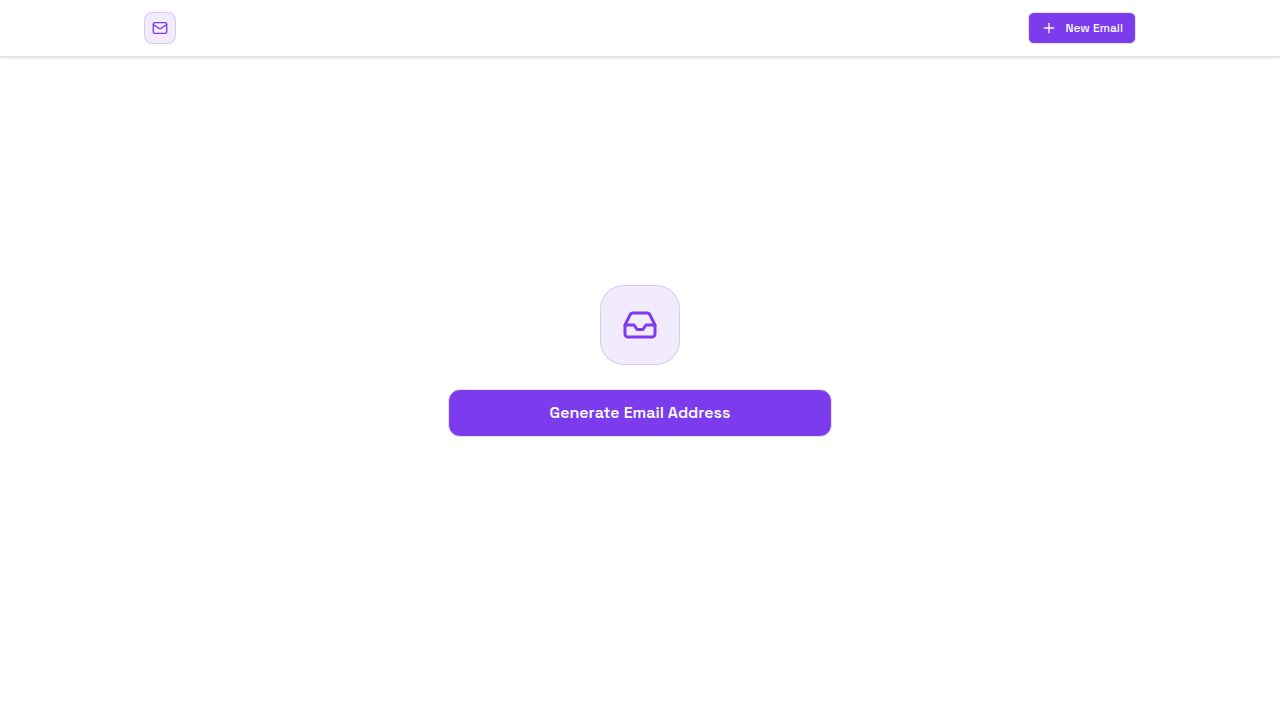
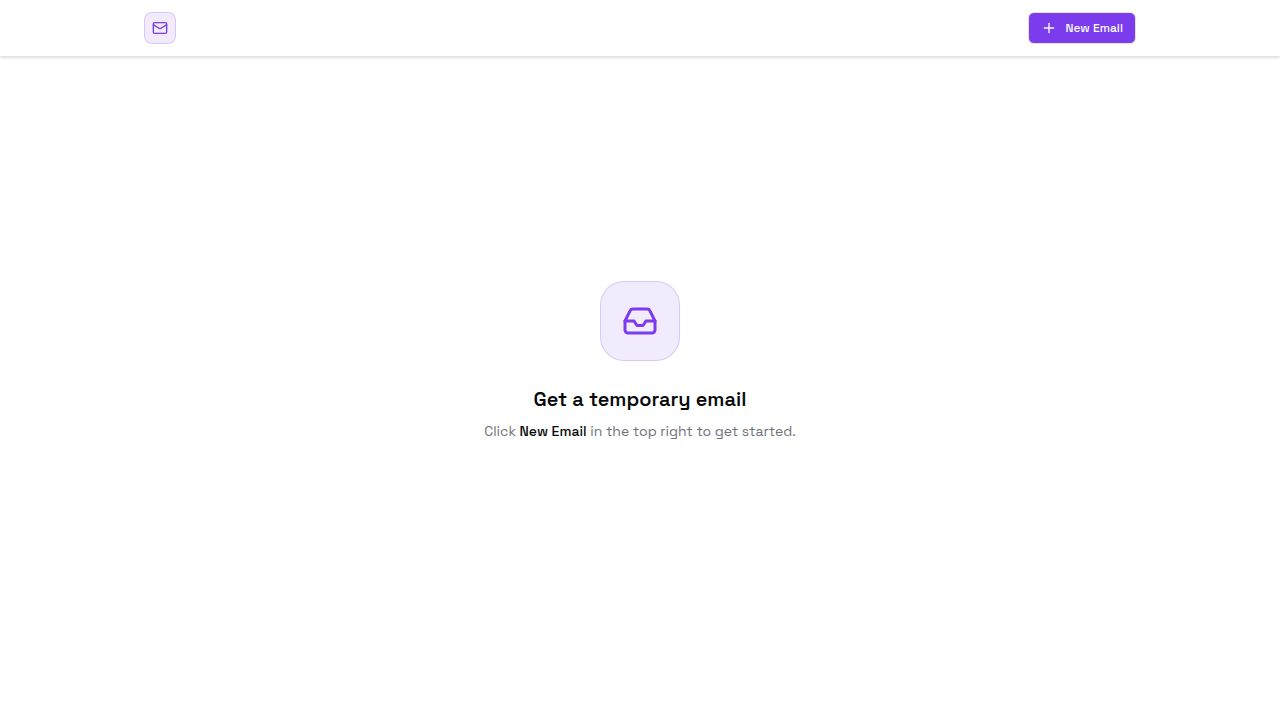
Combine emails from all accounts into a single inbox view
Integrate `useQueries` to fetch and display emails from all historical sessions within a unified inbox, enhancing mail aggregation and display logic.

Replit-Commit-Author: Agent
Replit-Commit-Session-Id: ecb05aba-7975-456b-a9d8-e32bce815ee8
Replit-Commit-Checkpoint-Type: full_checkpoint
Replit-Commit-Event-Id: f475250a-b571-40d0-bf6e-5f96ff474593
Replit-Commit-Screenshot-Url: https://storage.googleapis.com/screenshot-production-us-central1/1bb08f34-8c05-4824-8338-2155e3ab0660/ecb05aba-7975-456b-a9d8-e32bce815ee8/ZHIPDBZ
Replit-Helium-Checkpoint-Created: true

Changed region(s): [[0.3438, 0.5194, 0.6562, 0.6111], [0.4688, 0.4278, 0.5312, 0.4889]]

diff --git a/artifacts/web/src/pages/home.tsx b/artifacts/web/src/pages/home.tsx
@@ -11,10 +11,11 @@ import {
   getGetSessionQueryKey,
   useGetSessionMails,
   getGetSessionMailsQueryKey,
+  getGetSessionMailsQueryOptions,
   useGetMailContent,
   getGetMailContentQueryKey
 } from "@workspace/api-client-react";
-import { useQueryClient } from "@tanstack/react-query";
+import { useQueryClient, useQueries } from "@tanstack/react-query";
 import { useToast } from "@/hooks/use-toast";
 
 const SESSION_STORAGE_KEY = "dropmail_session_id";
@@ -163,6 +164,7 @@ export default function Home() {
 
   const [sessionId, setSessionId] = useState<string | null>(() => localStorage.getItem(SESSION_STORAGE_KEY));
   const [selectedMailId, setSelectedMailId] = useState<string | null>(null);
+  const [selectedMailSession, setSelectedMailSession] = useState<string | null>(null);
   const [isCopied, setIsCopied] = useState(false);
   const [history, setHistory] = useState<SavedSession[]>(getHistory);
   const [activeTab, setActiveTab] = useState("inbox");
@@ -180,7 +182,7 @@ export default function Home() {
     }
   );
 
-  const { data: mailsData, isFetching: isPollingMails } = useGetSessionMails(
+  const { isFetching: isPollingMails } = useGetSessionMails(
     sessionId || "",
     {
       query: {
@@ -190,6 +192,27 @@ export default function Home() {
       },
     }
   );
+
+  // Fetch mails from ALL sessions in history for unified inbox
+  const allSessionMailsResults = useQueries({
+    queries: history.map((s) => ({
+      ...getGetSessionMailsQueryOptions(s.id),
+      refetchInterval: 4000,
+      queryKey: getGetSessionMailsQueryKey(s.id),
+    })),
+  });
+
+  // Combine all mails from all sessions, tagged with session info
+  const unifiedMails = allSessionMailsResults
+    .flatMap((result, i) => {
+      const session = history[i];
+      return (result.data?.mails || []).map((mail) => ({
+        ...mail,
+        _sessionId: session.id,
+        _sessionEmail: session.email,
+      }));
+    })
+    .sort((a, b) => new Date(b.receivedAt).getTime() - new Date(a.receivedAt).getTime());
 
   // Save current session to history when loaded
   useEffect(() => {
@@ -214,6 +237,7 @@ export default function Home() {
         setSessionId(data.id);
         localStorage.setItem(SESSION_STORAGE_KEY, data.id);
         setSelectedMailId(null);
+        setSelectedMailSession(null);
         setActiveTab("inbox");
         queryClient.invalidateQueries({ queryKey: getGetSessionQueryKey(data.id) });
         queryClient.invalidateQueries({ queryKey: getGetSessionMailsQueryKey(data.id) });
@@ -266,13 +290,13 @@ export default function Home() {
   }, []);
 
   const handleManualRefresh = useCallback(() => {
-    if (sessionId) {
-      queryClient.invalidateQueries({ queryKey: getGetSessionMailsQueryKey(sessionId) });
-    }
-  }, [sessionId, queryClient]);
+    history.forEach((s) => {
+      queryClient.invalidateQueries({ queryKey: getGetSessionMailsQueryKey(s.id) });
+    });
+  }, [history, queryClient]);
 
   const activeEmail = sessionData?.addresses?.[0]?.address;
-  const mails = mailsData?.mails || sessionData?.mails || [];
+  const mails = unifiedMails;
 
   return (
     <div className="min-h-screen bg-background text-foreground flex flex-col font-sans">
@@ -344,9 +368,9 @@ export default function Home() {
                     {selectedMailId ? (
                       <div className="p-4 flex-1 flex flex-col">
                         <MailDetailView
-                          sessionId={sessionId}
+                          sessionId={selectedMailSession || sessionId}
                           mailId={selectedMailId}
-                          onBack={() => setSelectedMailId(null)}
+                          onBack={() => { setSelectedMailId(null); setSelectedMailSession(null); }}
                         />
                       </div>
                     ) : (
@@ -377,8 +401,8 @@ export default function Home() {
                             <div className="divide-y divide-border">
                               {mails.map((mail) => (
                                 <button
-                                  key={mail.rawId}
-                                  onClick={() => setSelectedMailId(mail.rawId)}
+                                  key={`${mail._sessionId}-${mail.rawId}`}
+                                  onClick={() => { setSelectedMailId(mail.rawId); setSelectedMailSession(mail._sessionId); }}
                                   className="w-full text-left px-4 py-4 hover:bg-muted/30 transition-colors group"
                                   data-testid={`button-mail-${mail.rawId}`}
                                 >
@@ -392,6 +416,7 @@ export default function Home() {
                                     {mail.headerSubject || "(No Subject)"}
                                   </p>
                                   <p className="text-xs text-muted-foreground line-clamp-1">{mail.text || "No preview available..."}</p>
+                                  <p className="text-xs text-muted-foreground/70 mt-1">→ {mail._sessionEmail}</p>
                                 </button>
                               ))}
                             </div>
